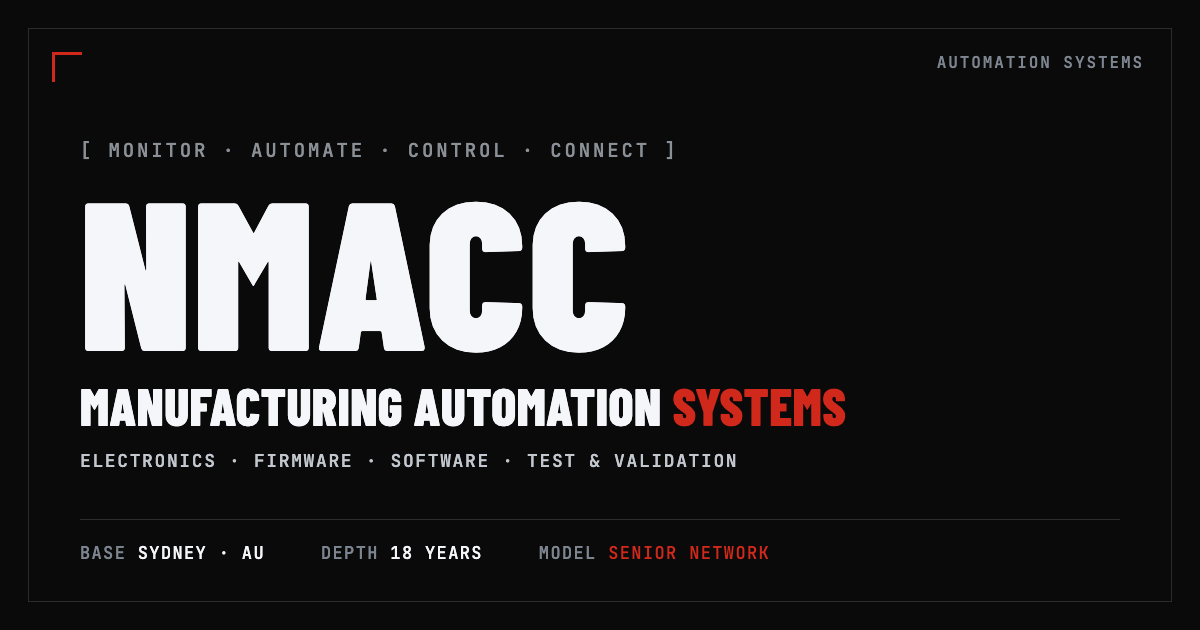
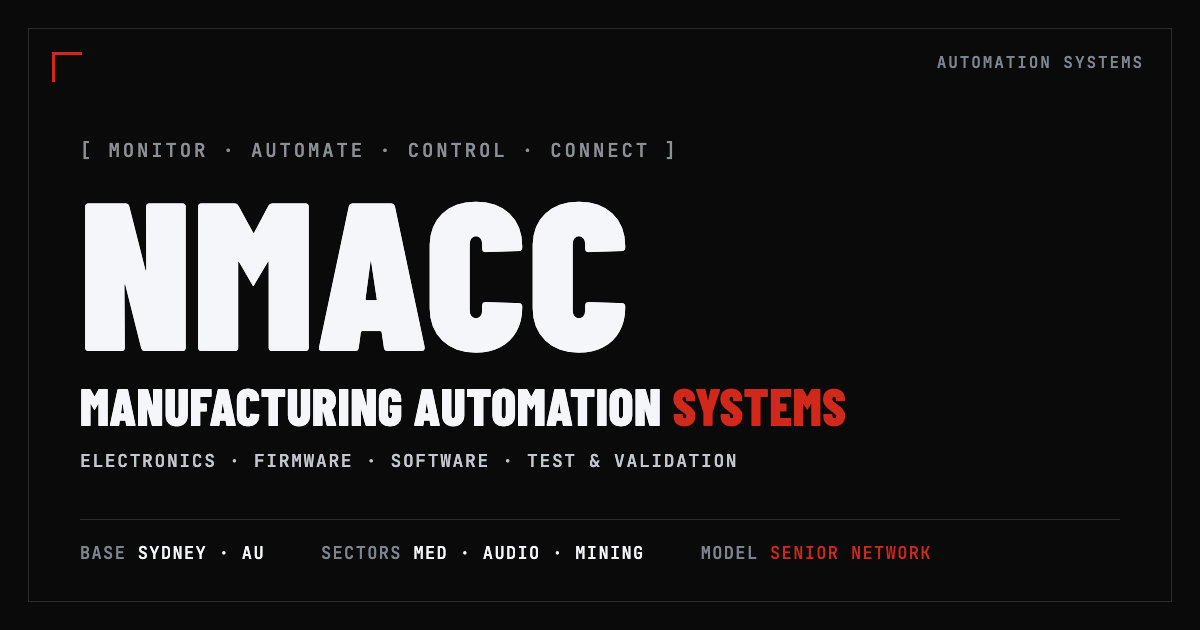
De-personalise: drop one-person experience tells
A firm has a track record, not a tenure. Remove the "DEPTH — 18 YEARS"
hero line, the leading "18 YRS" in the track-record strip, and the
founder-node year count; reframe the founder node around ownership.
Update the OG card strip accordingly.

Changed region(s): [[0.3083, 0.8444, 0.7708, 0.9048]]

diff --git a/index.html b/index.html
@@ -100,7 +100,6 @@
         <aside class="hero-side" aria-label="Practice reference">
           <div class="spec-line"><span class="spec-k">PRACTICE</span><span class="spec-v">NMACC</span></div>
           <div class="spec-line"><span class="spec-k">DISCIPLINES</span><span class="spec-v">ELEC · FW · SW</span></div>
-          <div class="spec-line"><span class="spec-k">DEPTH</span><span class="spec-v">18 YEARS</span></div>
           <div class="spec-line"><span class="spec-k">SECTORS</span><span class="spec-v">MED · AUDIO · MINING</span></div>
           <div class="spec-line"><span class="spec-k">BASE</span><span class="spec-v">SYDNEY, AU</span></div>
           <div class="spec-line"><span class="spec-k">MODEL</span><span class="spec-v red">SENIOR NETWORK</span></div>
@@ -111,7 +110,7 @@
     <!-- ================= CREDIBILITY STRIP ================= -->
     <div class="capacity-bar" role="presentation">
       <span class="cap-k">TRACK RECORD</span>
-      <span class="cap-v">18 YRS · MEDICAL · PRO AUDIO · MINING · CONSUMER · FDA 21 CFR PART 11 / ISO 13485 · SENSOR-TO-DASHBOARD</span>
+      <span class="cap-v">MEDICAL · PRO AUDIO · MINING · CONSUMER · FDA 21 CFR PART 11 / ISO 13485 · SENSOR-TO-DASHBOARD</span>
     </div>
 
     <!-- ================= CAPABILITIES ================= -->
@@ -295,7 +294,7 @@
         <article class="module" tabindex="0">
           <span class="module-id">NODE-01</span>
           <h3 class="module-title">PRINCIPAL · SYSTEMS ARCHITECT</h3>
-          <p>Founder Loay Nofal — 18 years across medical, audio, industrial, and consumer manufacturing. Owns the architecture end to end.</p>
+          <p>Founder and principal systems architect Loay Nofal. Owns the system architecture end to end — across medical, audio, industrial, and consumer manufacturing.</p>
         </article>
         <article class="module" tabindex="0">
           <span class="module-id">NODE-02</span>

diff --git a/assets/og-image.html b/assets/og-image.html
@@ -73,7 +73,7 @@
 
   <div class="strip">
     <span><span class="k">BASE</span> <span class="v">SYDNEY · AU</span></span>
-    <span><span class="k">DEPTH</span> <span class="v">18 YEARS</span></span>
+    <span><span class="k">SECTORS</span> <span class="v">MED · AUDIO · MINING</span></span>
     <span><span class="k">MODEL</span> <span class="red">SENIOR NETWORK</span></span>
   </div>
 </body>